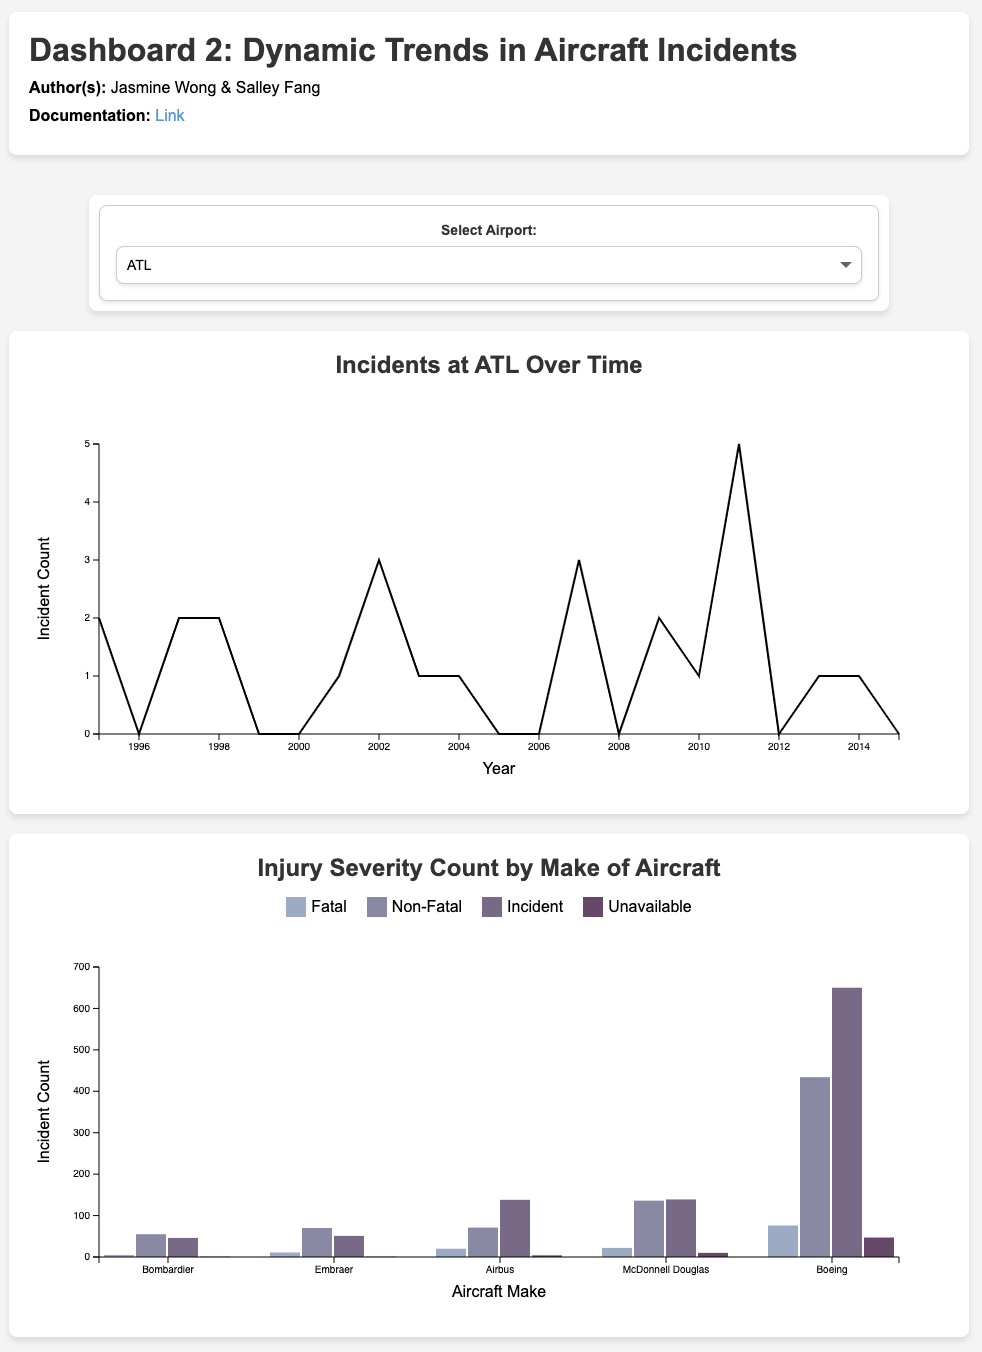
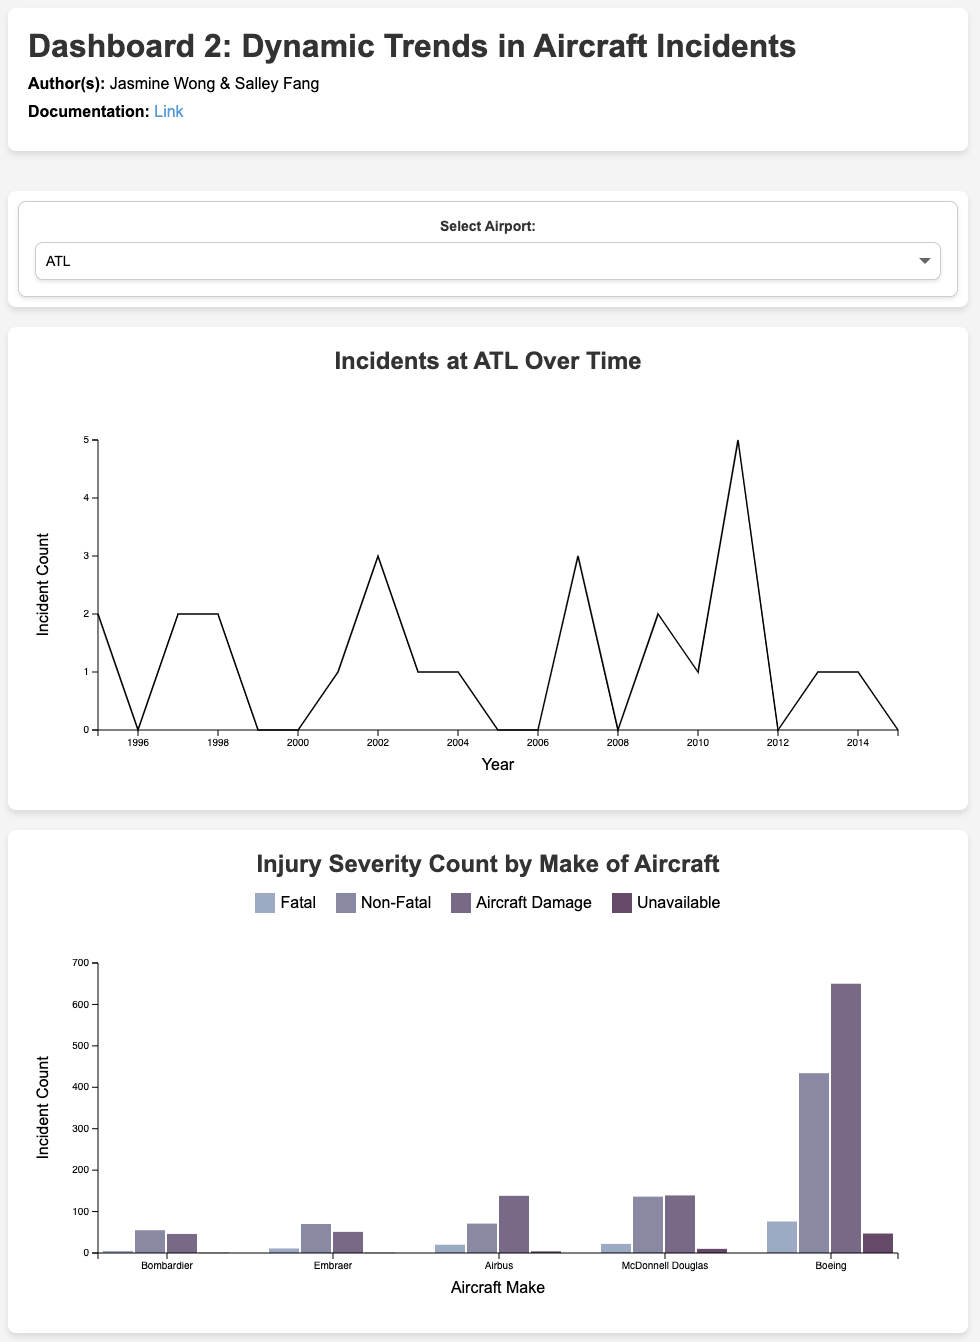
Finished redesign from critiques

diff --git a/index.html b/index.html
@@ -40,30 +40,15 @@
             </div>
         </div>
     </div>
-    <!-- <div class="item horizontal-container"> -->
-        <!-- <div class="item"> -->
-            <!-- Widget 1 title -->
-
-            <!-- Widget 1 element -->
-        <!-- </div> -->
-
-        <!-- DELETE THE FOLLOWING DIV IF YOU ONLY HAVE 1 WIDGET. -->
-        <!-- <div class="item"> -->
-            <!-- Widget 2 title -->
-            <!-- Widget 2 element -->
-        <!-- </div> -->
-    <!-- </div> -->
 
     <!-- CHART(S) -->
     <div class="item chart-container">
         <h2>Incidents at ATL Over Time</h2>
-        <svg id="lineChart1" width="900" height="400"></svg> <!-- If you change this ID name, you must change it in main.js too -->
+        <svg id="lineChart1" width="900" height="400"></svg> 
     </div>
-    <!-- DELETE THE FOLLOWING DIV IF YOU ONLY HAVE 1 CHART. -->
     <div class="item chart-container">
         <h2>Injury Severity Count by Make of Aircraft</h2>
         <div class="legend">
-            <!-- Should we make the legend text smaller point size? -->
             <div class="legend-item">
                 <span class="square" style="background-color: #99abc5;"></span> Fatal
             </div>
@@ -71,7 +56,7 @@
                 <span class="square" style="background-color: #8a89a6;"></span> Non-Fatal
             </div>
             <div class="legend-item">
-                <span class="square" style="background-color: #7b6888;"></span> Incident
+                <span class="square" style="background-color: #7b6888;"></span> Aircraft Damage
             </div>
             <div class="legend-item">
                 <span class="square" style="background-color: #6b476b;"></span> Unavailable

diff --git a/style.css b/style.css
@@ -124,7 +124,7 @@ a:hover {
     display: flex;
     flex-direction: row;
     justify-content: flex-start; /* Align widgets to the left */
-    width: 800px; /* Match the width of the chart for consistency */
+    width: 960px; /* Match the width of the chart for consistency */
     margin: 20px 0; /* Add vertical spacing */
     gap: 16px; /* Space between widgets */
     padding: 10px;

diff --git a/main.js b/main.js
@@ -72,7 +72,7 @@ Promise.all([
         .attr("d", line)
         .attr("stroke", "black")
         .attr("fill", "none")
-        .attr("stroke-width", 2);
+        .attr("stroke-width", 1.5);
 
     // 5.a: ADD AXES FOR CHART 1
     svg1_Line.append("g")
